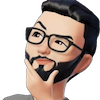
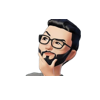
redesign

diff --git a/index.html b/index.html
@@ -51,7 +51,7 @@
       <div class="sidebar-info">
 
         <figure class="avatar-box">
-          <img src="./assets/images/avatar-1.png" alt="Buyung Bahari" width="80">
+          <img src="./assets/images/my-avatar.png" alt="Buyung Bahari" width="80">
         </figure>
 
         <div class="info-content">
